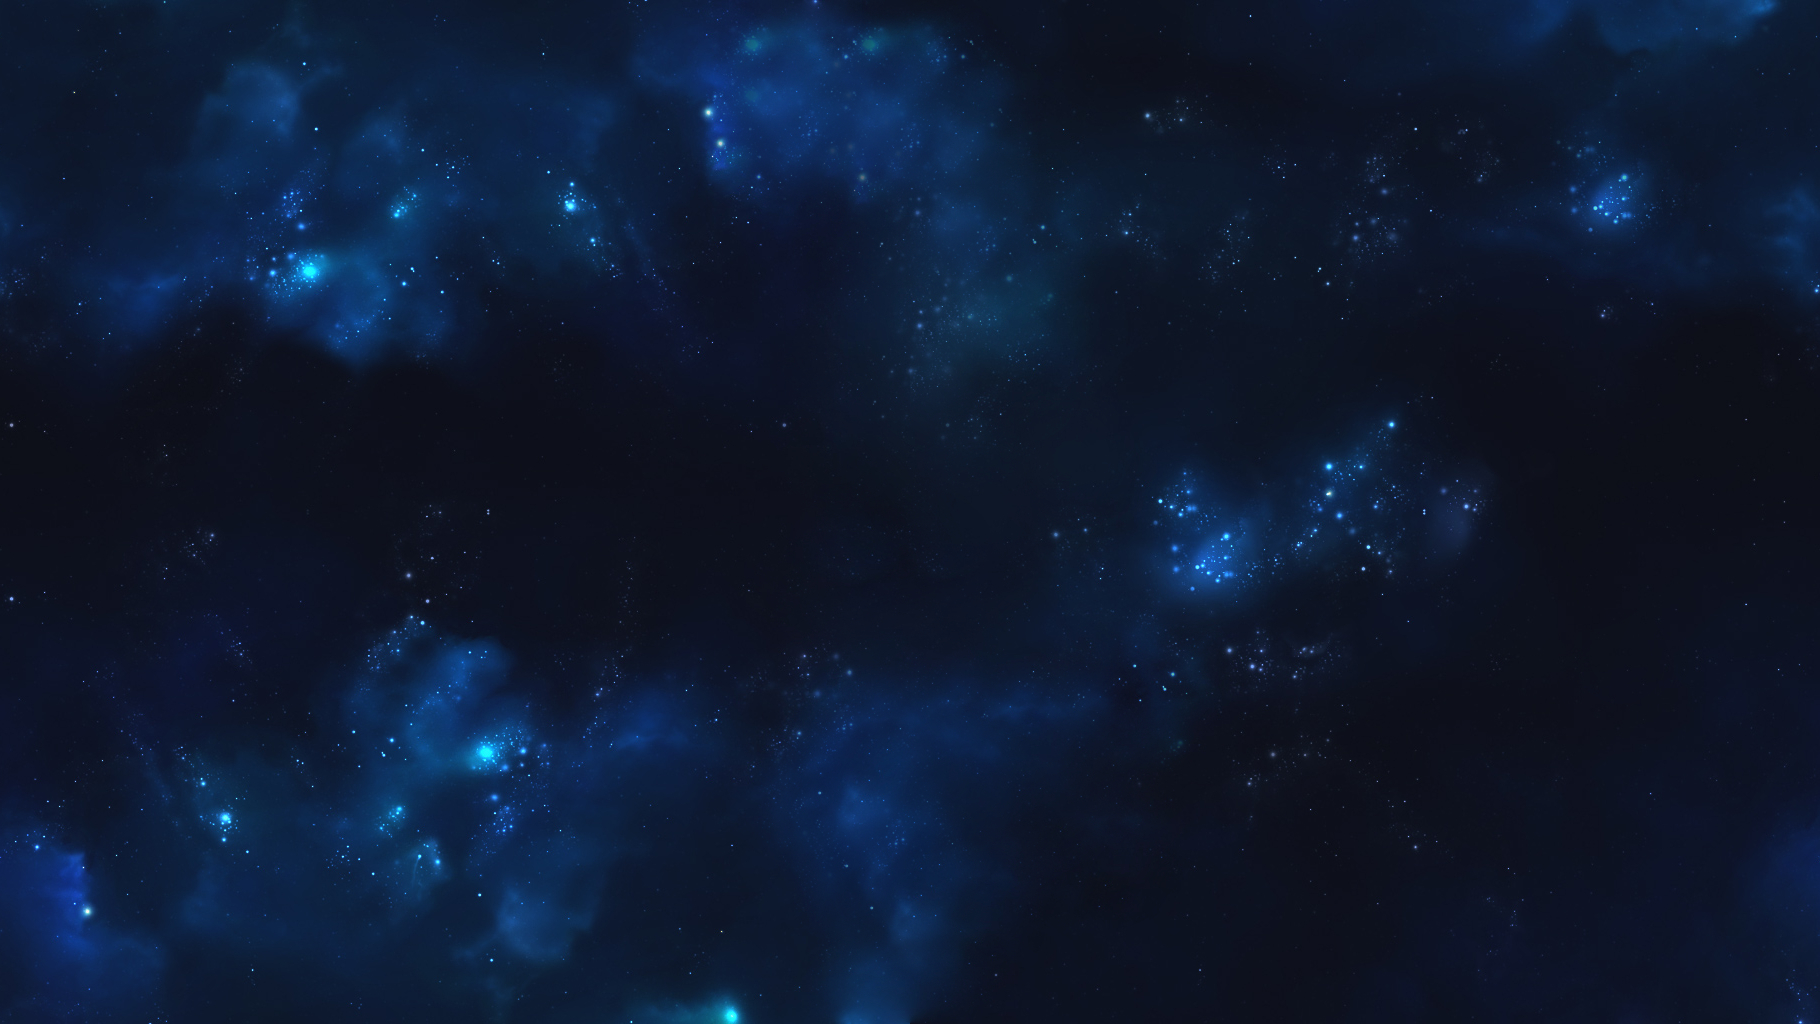
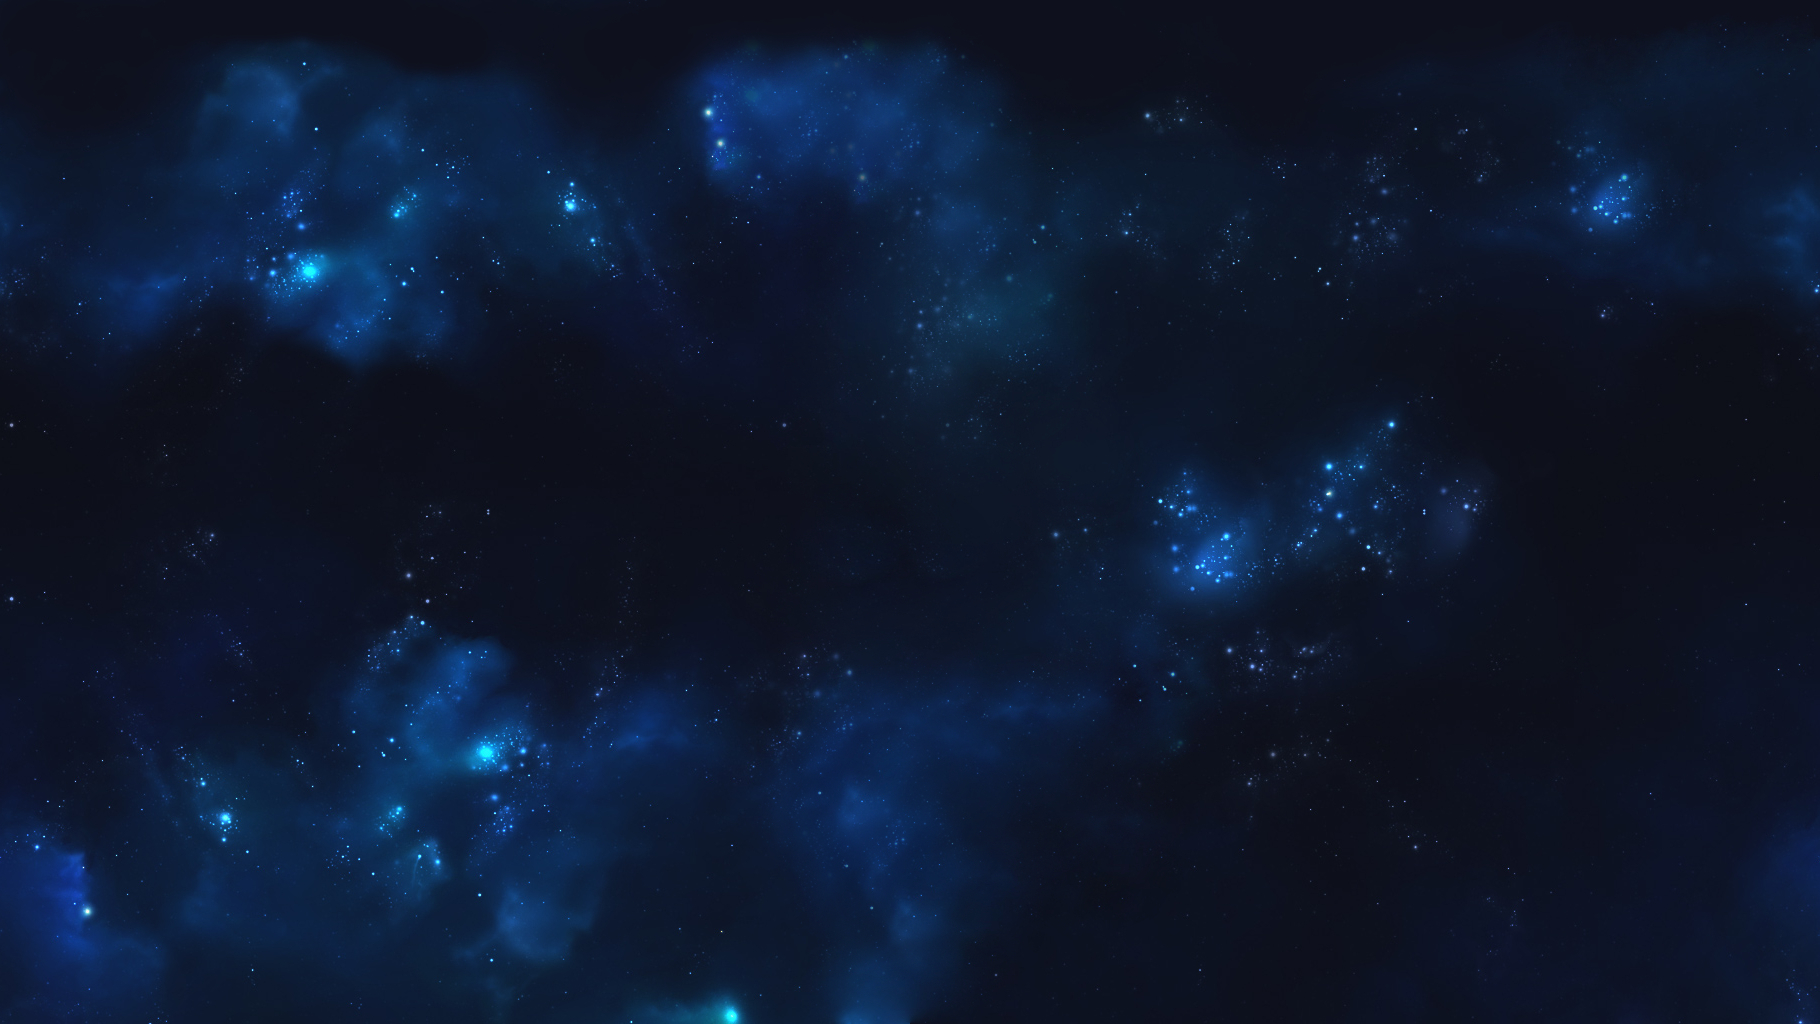
Better Mobile support

Changed region(s): [[0.0615, 0.0, 0.5231, 0.1562], [0.7692, 0.0, 1.0, 0.0625]]

diff --git a/assets/css/main.css b/assets/css/main.css
@@ -180,7 +180,7 @@
 		transform: translate3d(0,0,0);
 	/* Set your background with this */
 
-		background: #348cb2 url("images/bg.jpg") bottom left;
+		background: #0e101d url("images/bg.jpg") bottom left;
 		background-repeat: repeat-x;
 		height: 100%;
 		left: 0;
